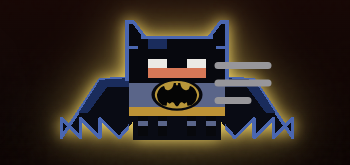
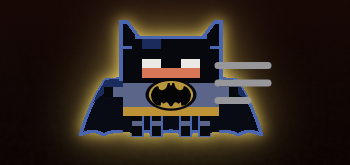
docs(screenshots): DARK DECO alarmed with his arms out, and the report on its still veil
Refs #145

diff --git a/README.md b/README.md
@@ -38,7 +38,7 @@ The look is inspired by the reds and blacks of *The Batman* (2022): every sessio
 |:---:|:---:|
 | <img src="docs/screenshots/holiday-needs-you.png" width="170" alt="HOLIDAY: the same requests on a wine-black night, BLESSING? and BOTCHED in jack-o'-lantern orange, A WORD? and MESSAGE in the Signal lens's grey, a pumpkin moon behind the tabs and a calendar's torn pages falling"> | <img src="docs/screenshots/deco-needs-you.png" width="170" alt="DARK DECO: the same requests under the opening's red sky, black cloud shadows in it and black Deco towers below, police blimps hovering with their beams, GO AHEAD? and BUSTED in the searchlight's yellow, ANSWER ME and NEW LEAD in the rim's blue, in flared roman caps"> |
 | <img src="docs/screenshots/holiday-night-report.png" width="170" alt="HOLIDAY's Calendar, dated by the next holiday (HALLOWEEN IN 8 DAYS): Waiting on your word, orange and grey stamps in the margin"> | <img src="docs/screenshots/deco-night-report.png" width="170" alt="DARK DECO's report, Tonight's episode: On hold for you, yellow and blue stamps in the margin, the red sky behind it veiled only where it lights"> |
-| <img src="docs/screenshots/holiday-clawd-alarmed.png" width="170" alt="HOLIDAY's Bat-Clawd in Sale's suit, a blue cowl with long ears, a blue mantle, the Signal's bat on his blue-grey chest, a gold belt, his blue cape thrown open, a jack-o'-lantern lit at his foot, in an orange glow"> | <img src="docs/screenshots/deco-clawd-alarmed.png" width="170" alt="DARK DECO's Bat-Clawd in Timm's suit, a black cowl with taller ears, the blue-grey suit with the yellow oval and its black bat, a gold belt, black gloves and boots, his black cape lit navy and flung open, in a yellow glow"> |
+| <img src="docs/screenshots/holiday-clawd-alarmed.png" width="170" alt="HOLIDAY's Bat-Clawd in Sale's suit, a blue cowl with long ears, a blue mantle, the Signal's bat on his blue-grey chest, a gold belt, his blue cape thrown open, a jack-o'-lantern lit at his foot, in an orange glow"> | <img src="docs/screenshots/deco-clawd-alarmed.png" width="170" alt="DARK DECO's Bat-Clawd in Timm's suit, a black cowl with taller ears, the blue-grey suit with the yellow oval and its black bat, a gold belt, black gloves and boots, his arms out and his black cape lit navy and flung open, in a yellow glow"> |
 
 ## A closer look
 
